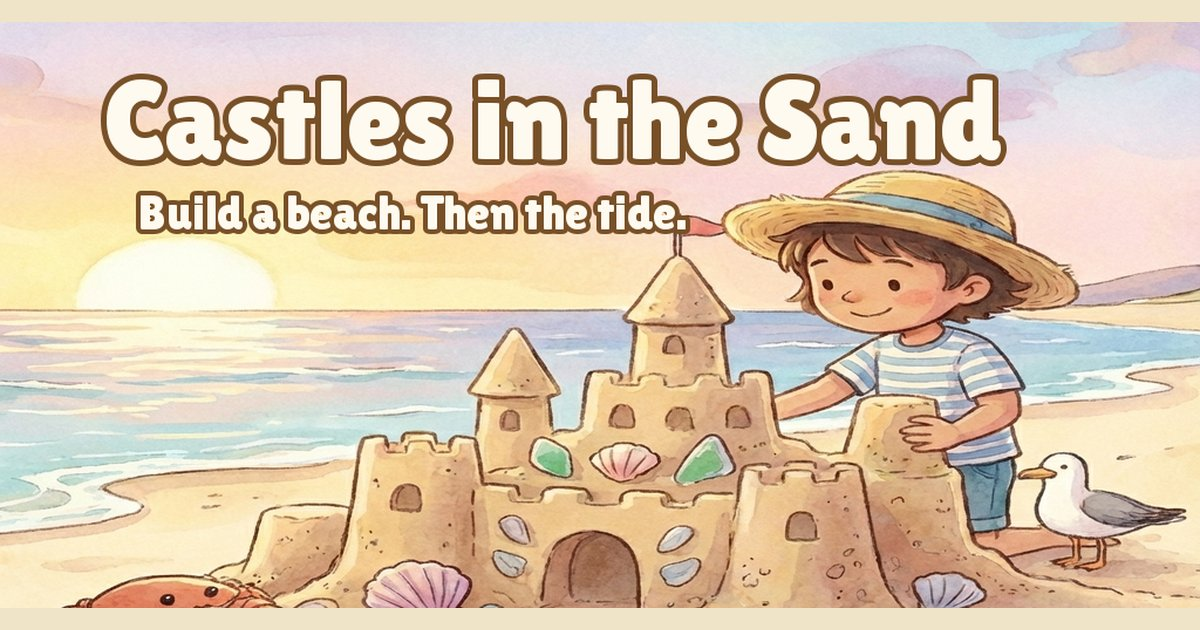
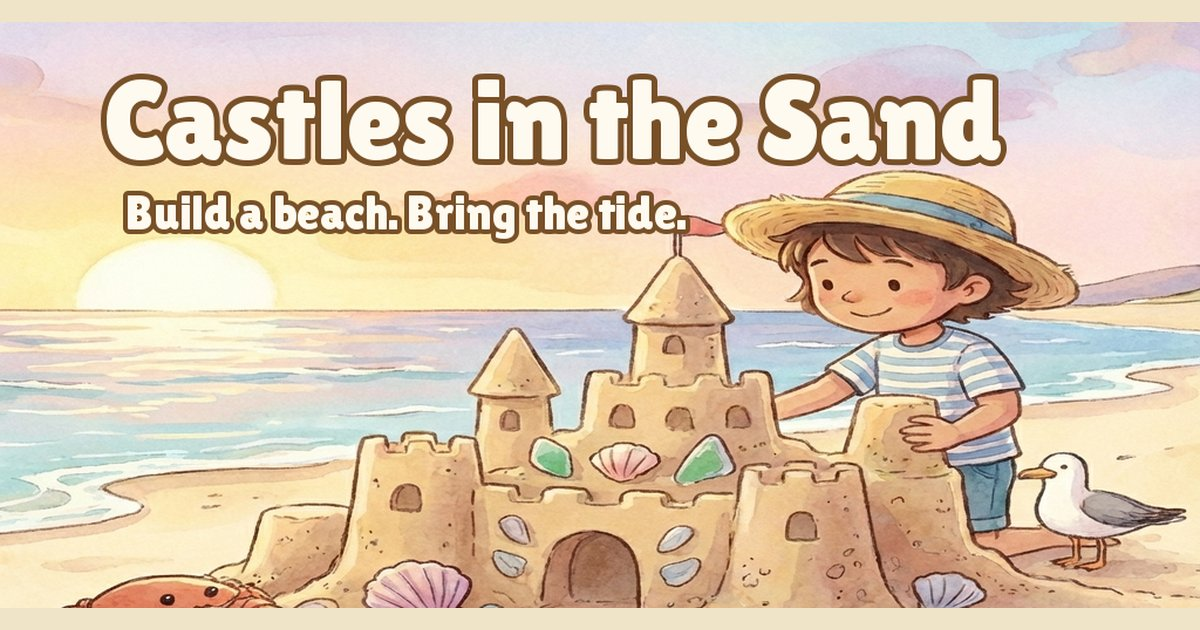
Tagline: "Bring the tide"

Changed region(s): [[0.0925, 0.3016, 0.5858, 0.3921]]

diff --git a/castles-in-the-sand/index.html b/castles-in-the-sand/index.html
@@ -15,7 +15,7 @@
 <meta property="og:type" content="website">
 <meta property="og:site_name" content="Hexmonger">
 <meta property="og:title" content="Castles in the Sand">
-<meta property="og:description" content="Build a beach. Then the tide. A cozy beach-building game with real water.">
+<meta property="og:description" content="Build a beach. Bring the tide. A cozy beach-building game with real water.">
 <meta property="og:url" content="https://hexmonger.com/castles-in-the-sand/">
 <meta property="og:image" content="https://hexmonger.com/assets/img/cits-og.jpg">
 <meta property="og:image:width" content="1200">
@@ -75,7 +75,7 @@
           <span><b>A cozy beach-building game</b>Free · rated for everyone</span>
         </div>
         <h1 id="title">Castles in the Sand</h1>
-        <p class="tagline">Build a beach. Then the tide.</p>
+        <p class="tagline">Build a beach. Bring the tide.</p>
         <p class="lede">Shape wet sand into castles with one finger, plant your flag, and let the sea have a go at it. The water is real, and so is the way your walls give way.</p>
         <div class="btns">
           <a class="btn btn-play" href="https://hexmonger.itch.io/castles-in-the-sand">
@@ -149,7 +149,7 @@
   <section class="sea" aria-labelledby="sea-title" style="padding-top:40px">
     <div class="wrap split">
       <div class="split-copy">
-        <p class="kicker">Then the tide</p>
+        <p class="kicker">Bring the tide</p>
         <h2 id="sea-title">The sea is not an animation</h2>
         <p>Water flows downhill, soaks into the sand, carries grains away and drops them somewhere else. Wet sand wicks, slumps and settles.</p>
         <p>A wall that gets too wet sags. A moat that drains does its job. Your castle survives, or melts, for the same reasons a real one would.</p>

diff --git a/index.html b/index.html
@@ -15,7 +15,7 @@
 <meta property="og:type" content="website">
 <meta property="og:site_name" content="Hexmonger">
 <meta property="og:title" content="Hexmonger — Independent Game Studio">
-<meta property="og:description" content="Castles in the Sand: build a beach, then the tide. Coming soon to iOS and Android.">
+<meta property="og:description" content="Castles in the Sand: build a beach, bring the tide. Coming soon to iOS and Android.">
 <meta property="og:url" content="https://hexmonger.com/">
 <meta property="og:image" content="https://hexmonger.com/assets/img/og-image.jpg">
 <meta property="og:image:width" content="1200">
@@ -65,7 +65,7 @@
       <div class="hero-copy">
         <p class="eyebrow">Coming soon to iPhone, iPad &amp; Android</p>
         <h1 id="cits-title">Castles in the Sand</h1>
-        <p class="tagline">Build a beach. Then the tide.</p>
+        <p class="tagline">Build a beach. Bring the tide.</p>
         <p class="lede">A cozy beach-building game with real water. Shape wet sand into castles with one finger, plant your flag, and let the sea have a go at it.</p>
         <div class="btns">
           <a class="btn btn-primary" href="https://hexmonger.itch.io/castles-in-the-sand">
